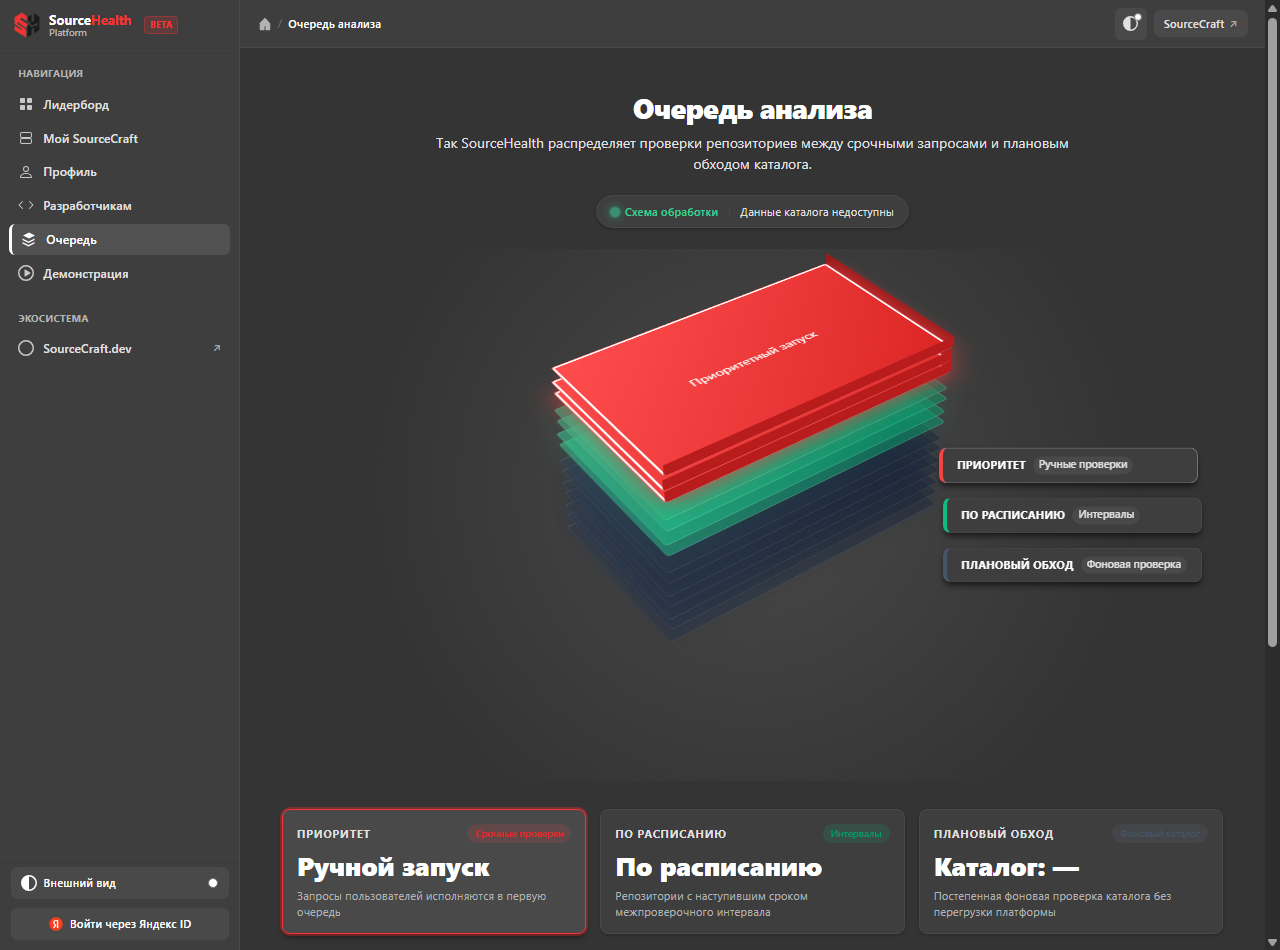
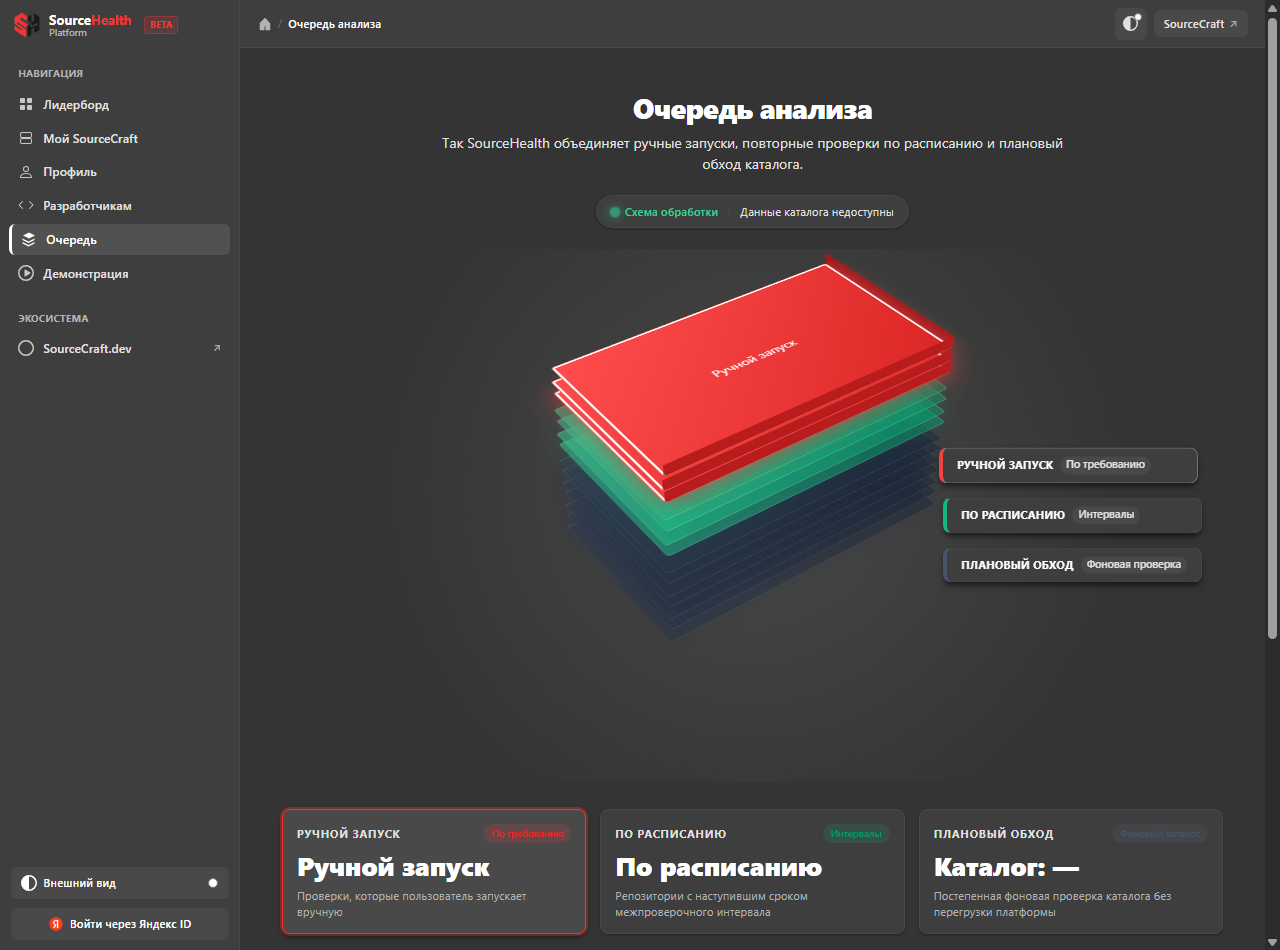
fix(frontend): describe queue tiers as processing modes

diff --git a/frontend/src/components/queue/StackLegend.tsx b/frontend/src/components/queue/StackLegend.tsx
@@ -17,21 +17,21 @@ export const StackLegend: React.FC<StackLegendProps> = ({
     { title: string; text: string; badge: string; badgeClass: string }
   > = {
     priority: {
-      title: 'Уровень: Приоритетные проверки (Priority)',
-      text: 'Проверки, запущенные пользователем или мейнтейнером вручную через кнопку анализа, получают наивысший приоритет. Они исполняются в первую очередь в обход планового расписания, чтобы автор репозитория получил мгновенную обратную связь.',
-      badge: 'Приоритет 1 (Мгновенный запуск)',
+      title: 'Режим: Ручной запуск',
+      text: 'Ручной анализ позволяет запросить актуальную проверку репозитория по требованию. После создания задача попадает в общую систему обработки SourceHealth.',
+      badge: 'По требованию',
       badgeClass: 'is-priority',
     },
     timed: {
-      title: 'Уровень: Проверки по расписанию (Timed)',
-      text: 'Репозитории возвращаются в очередь, когда наступает срок их периодической актуализации (refresh interval). Проекты с высокой частотой коммитов и отслеживаемые репозитории проверяются чаще, экономя вычислительные ресурсы платформы.',
-      badge: 'Приоритет 2 (По таймеру)',
+      title: 'Режим: Проверки по расписанию',
+      text: 'Репозитории возвращаются для повторной проверки, когда истекает рассчитанный интервал актуализации. Недавно активные репозитории могут получать более короткий интервал.',
+      badge: 'Интервалы',
       badgeClass: 'is-timed',
     },
     planned: {
-      title: 'Уровень: Плановый фоновый обход (Planned)',
+      title: 'Режим: Плановый фоновый обход',
       text: 'Фоновый обход помогает постепенно и детерминированно актуализировать состояние всего публичного каталога. Планировщик плавно распределяет репозитории каталога по времени, обеспечивая равномерную нагрузку на анализаторы.',
-      badge: 'Приоритет 3 (Фоновый цикл)',
+      badge: 'Фоновый каталог',
       badgeClass: 'is-planned',
     },
   };
@@ -49,12 +49,18 @@ export const StackLegend: React.FC<StackLegendProps> = ({
 
       {/* Scheduling Invariants & Truth Note */}
       <div className="sh-invariants-box">
-        <div className="sh-invariants-title">Принципы честного планирования SourceHealth:</div>
+        <div className="sh-invariants-title">Режимы обработки SourceHealth</div>
         <div>
-          • <strong>Строгая приоритизация:</strong> Priority &gt; Timed &gt; Planned. Задачи ручного анализа не стоят в хвосте очереди каталога.
+          • <strong>Ручной запуск:</strong> анализ по запросу пользователя.
         </div>
         <div>
-          • <strong>Честность данных:</strong> Визуализация очереди отражает архитектурную модель стека. Платформа не фабрикует фиктивные события «repository completed», если статус не подтверждён фактическим анализом.
+          • <strong>По расписанию:</strong> повторная проверка после рассчитанного интервала.
+        </div>
+        <div>
+          • <strong>Плановый обход:</strong> постепенная фоновая обработка каталога.
+        </div>
+        <div>
+          • Визуализация показывает логическую модель обработки, а не live telemetry отдельных RQ queues.
         </div>
       </div>
 

diff --git a/frontend/src/api/queueData.ts b/frontend/src/api/queueData.ts
@@ -5,7 +5,7 @@
  * - Real live values are strictly limited to verified catalog stats from /catalog/stats.
  * - If the API is unreachable, catalog metrics evaluate to null/unavailable ("—"),
  *   never falling back to stale historical production snapshots (e.g. 4829, 2995).
- * - Priority, Timed, and Planned tiers are explicitly typed as conceptual architecture models,
+ * - Manual, Timed, and Planned tiers are explicitly typed as conceptual processing modes,
  *   not live Redis/RQ queue telemetry.
  * - No fake repository names, mock statuses, or artificial countdown timers are generated.
  */
@@ -37,13 +37,13 @@ export interface QueuePageData {
 export const CONCEPTUAL_TIERS: Record<'priority' | 'timed' | 'planned', QueueTier> = {
   priority: {
     id: 'priority',
-    name: 'Приоритет',
-    badge: 'Срочные проверки',
+    name: 'Ручной запуск',
+    badge: 'По требованию',
     badgeVariant: 'priority',
-    role: 'Запуск по требованию',
-    subtitle: 'Ручные запуски пользователей — исполняются в первую очередь',
+    role: 'Запуск пользователем',
+    subtitle: 'Проверки, которые пользователь запускает вручную',
     description:
-      'Проверки, запущенные пользователем или мейнтейнером вручную через кнопку анализа. Они получают наивысший приоритет и обрабатываются в первую очередь в обход планового расписания, обеспечивая мгновенную обратную связь.',
+      'Ручной анализ позволяет запросить актуальную проверку репозитория по требованию. После создания задача попадает в общую систему обработки SourceHealth.',
     mode: 'conceptual',
   },
   timed: {
@@ -54,7 +54,7 @@ export const CONCEPTUAL_TIERS: Record<'priority' | 'timed' | 'planned', QueueTie
     role: 'Интервальный обход',
     subtitle: 'Репозитории с наступившим сроком межпроверочного интервала',
     description:
-      'Репозитории возвращаются в очередь, когда наступает срок их периодической актуализации (refresh interval). Проекты с высокой активностью коммитов и отслеживаемые репозитории проверяются чаще, экономя вычислительные ресурсы платформы.',
+      'Репозитории возвращаются для повторной проверки, когда истекает рассчитанный интервал актуализации. Недавно активные репозитории могут получать более короткий интервал.',
     mode: 'conceptual',
   },
   planned: {

diff --git a/frontend/src/components/queue/AnalysisStack.tsx b/frontend/src/components/queue/AnalysisStack.tsx
@@ -120,7 +120,7 @@ export const AnalysisStack: React.FC<AnalysisStackProps> = ({
         </div>
 
         {/* 2D HUD Callout Overlay (Clear Conceptual Labels Aligned Beside the 3D Stack) */}
-        <aside className="sh-stack-hud" aria-label="Уровни планирования">
+        <aside className="sh-stack-hud" aria-label="Режимы обработки">
           {/* Priority Callout */}
           <div
             className={`sh-hud-tag is-priority ${selectedLevel === 'priority' ? 'is-active' : ''}`}
@@ -129,8 +129,8 @@ export const AnalysisStack: React.FC<AnalysisStackProps> = ({
             tabIndex={0}
             onKeyDown={(e) => (e.key === 'Enter' || e.key === ' ') && onSelectLevel('priority')}
           >
-            <span className="sh-hud-tag-title">ПРИОРИТЕТ</span>
-            <span className="sh-hud-tag-count">Ручные проверки</span>
+            <span className="sh-hud-tag-title">РУЧНОЙ ЗАПУСК</span>
+            <span className="sh-hud-tag-count">По требованию</span>
           </div>
 
           {/* Timed Callout */}

diff --git a/frontend/src/components/queue/StackCounters.tsx b/frontend/src/components/queue/StackCounters.tsx
@@ -29,14 +29,14 @@ export const StackCounters: React.FC<StackCountersProps> = ({
         onKeyDown={(e) => (e.key === 'Enter' || e.key === ' ') && onSelectLevel('priority')}
       >
         <div className="sh-counter-header">
-          <span className="sh-counter-label">Приоритет</span>
-          <span className="sh-counter-badge is-priority">Срочные проверки</span>
+          <span className="sh-counter-label">Ручной запуск</span>
+          <span className="sh-counter-badge is-priority">По требованию</span>
         </div>
         <div className="sh-counter-value">
           Ручной запуск
         </div>
         <div className="sh-counter-caption">
-          Запросы пользователей исполняются в первую очередь
+          Проверки, которые пользователь запускает вручную
         </div>
       </div>
 

diff --git a/frontend/src/pages/QueuePage.tsx b/frontend/src/pages/QueuePage.tsx
@@ -41,7 +41,7 @@ export const QueuePage: React.FC = () => {
         <div className="sh-queue-title-wrap">
           <h1 className="sh-queue-title">Очередь анализа</h1>
           <p className="sh-queue-subtitle">
-            Так SourceHealth распределяет проверки репозиториев между срочными запросами и плановым обходом каталога.
+            Так SourceHealth объединяет ручные запуски, повторные проверки по расписанию и плановый обход каталога.
           </p>
 
           <div className="sh-queue-status-bar" role="status" aria-live="polite">

diff --git a/frontend/src/components/queue/StackLayer.tsx b/frontend/src/components/queue/StackLayer.tsx
@@ -49,7 +49,7 @@ export const StackLayer: React.FC<StackLayerProps> = ({
           <div className="sh-slab-content">
             <div className="sh-top-slab-pill">
               <span className="sh-top-slab-dot" aria-hidden="true" />
-              <span>Приоритетный запуск</span>
+              <span>Ручной запуск</span>
             </div>
           </div>
         ) : null}

diff --git a/tests/test_queue_page_contract.py b/tests/test_queue_page_contract.py
@@ -63,17 +63,17 @@ class QueuePageContractTests(unittest.TestCase):
         self.assertIn("priority", stack_content)
         self.assertIn("timed", stack_content)
         self.assertIn("planned", stack_content)
-        self.assertIn("ПРИОРИТЕТ", stack_content)
+        self.assertIn("РУЧНОЙ ЗАПУСК", stack_content)
         self.assertIn("ПО РАСПИСАНИЮ", stack_content)
         self.assertIn("ПЛАНОВЫЙ ОБХОД", stack_content)
 
         counters_content = counters_path.read_text(encoding="utf-8")
-        self.assertIn("Приоритет", counters_content)
+        self.assertIn("Ручной запуск", counters_content)
         self.assertIn("По расписанию", counters_content)
         self.assertIn("Плановый обход", counters_content)
 
         legend_content = legend_path.read_text(encoding="utf-8")
-        self.assertIn("Приоритетные проверки", legend_content)
+        self.assertIn("Режим: Ручной запуск", legend_content)
         self.assertIn("Проверки по расписанию", legend_content)
         self.assertIn("Плановый фоновый обход", legend_content)
 
@@ -113,6 +113,25 @@ class QueuePageContractTests(unittest.TestCase):
         self.assertNotIn("Планировщик активен", text, "Do not claim 'Планировщик активен' without API telemetry")
         self.assertIn("Схема обработки", text, "Page must use honest architecture wording")
         self.assertIn("Данные каталога недоступны", text, "Must gracefully handle unreachable API")
+
+    def test_no_unsupported_runtime_priority_claims(self):
+        queue_api = self.frontend / "api" / "queueData.ts"
+        queue_dir = self.frontend / "components" / "queue"
+        files_to_check = [queue_api, *queue_dir.glob("*.tsx")]
+        forbidden_claims = (
+            "Строгая приоритизация",
+            "Приоритет 1",
+            "Приоритет 2",
+            "Приоритет 3",
+            "исполняются в первую очередь",
+            "в обход планового расписания",
+            "получают наивысший приоритет",
+            "не стоят в хвосте очереди каталога",
+        )
+
+        combined = "\n".join(path.read_text(encoding="utf-8") for path in files_to_check)
+        for claim in forbidden_claims:
+            self.assertNotIn(claim, combined)
 
     def test_reduced_motion_styles_present(self):
         css_path = self.frontend / "styles" / "queue.css"
